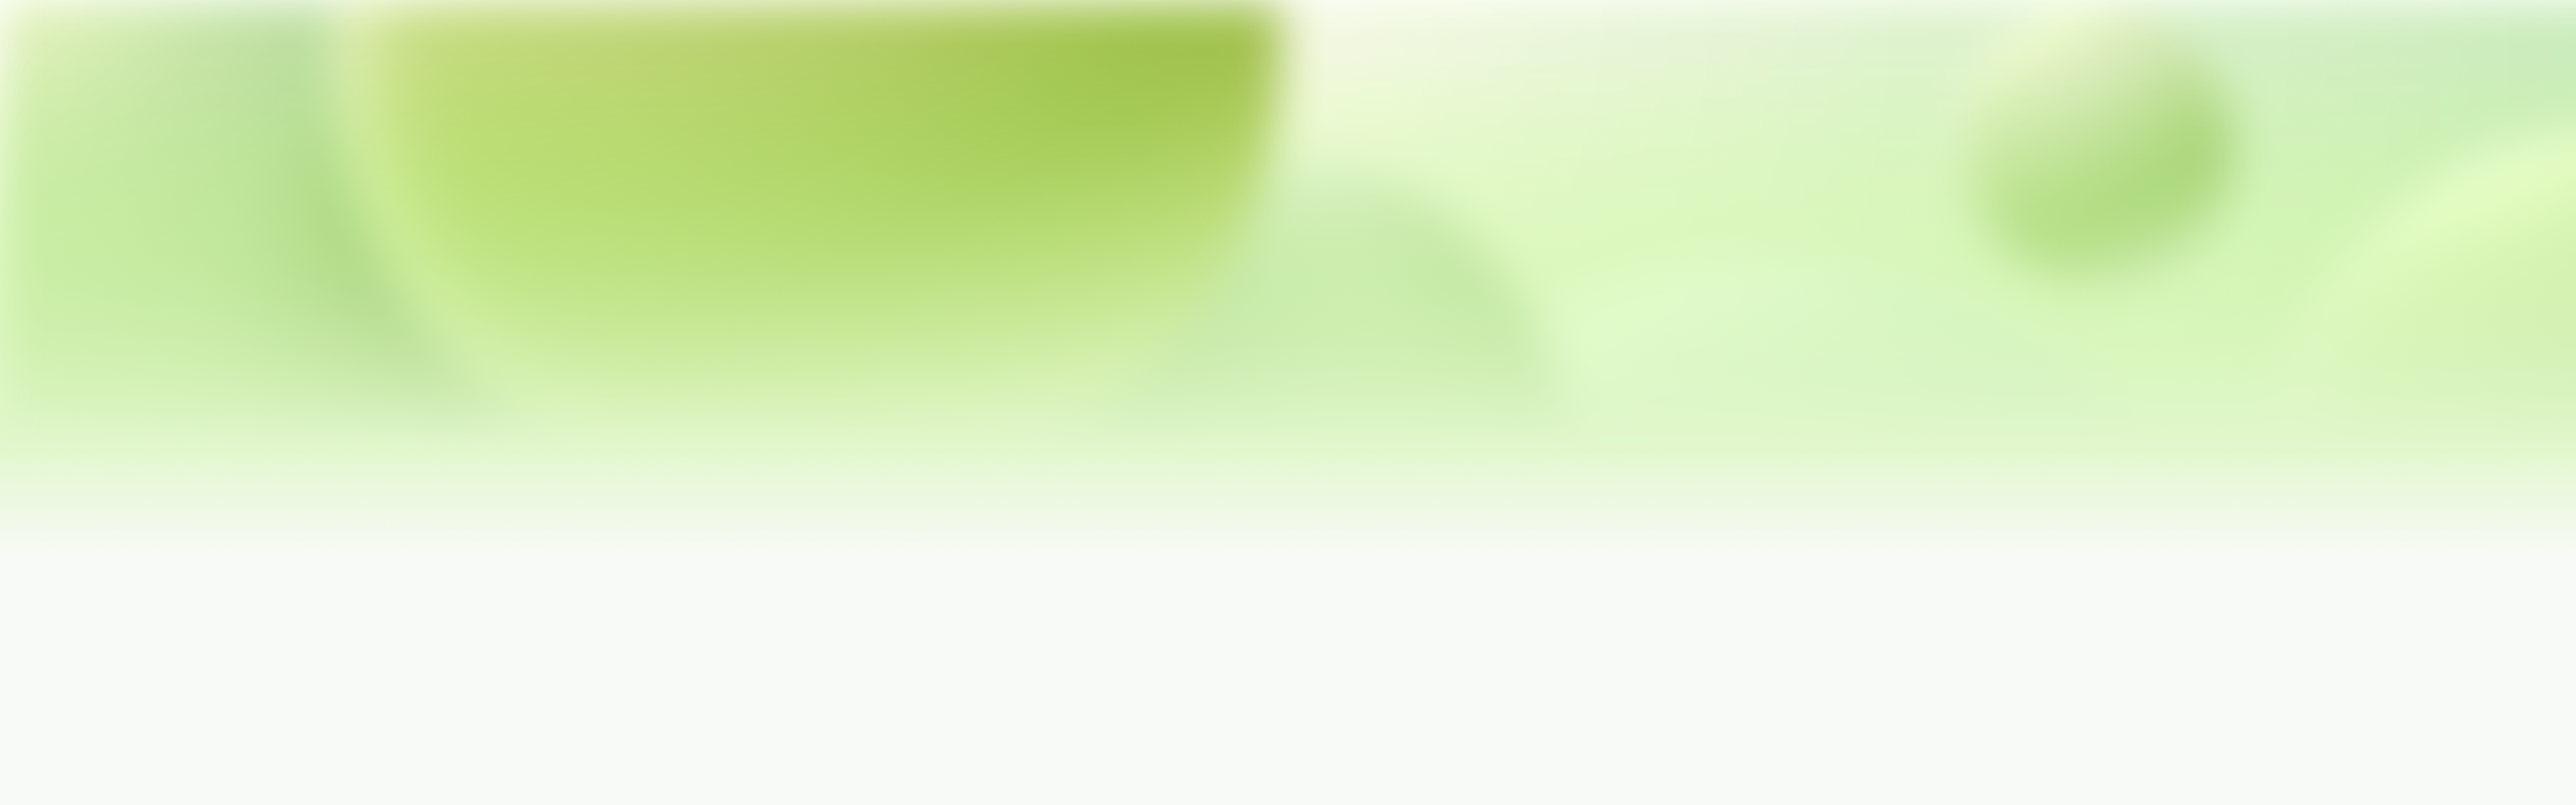
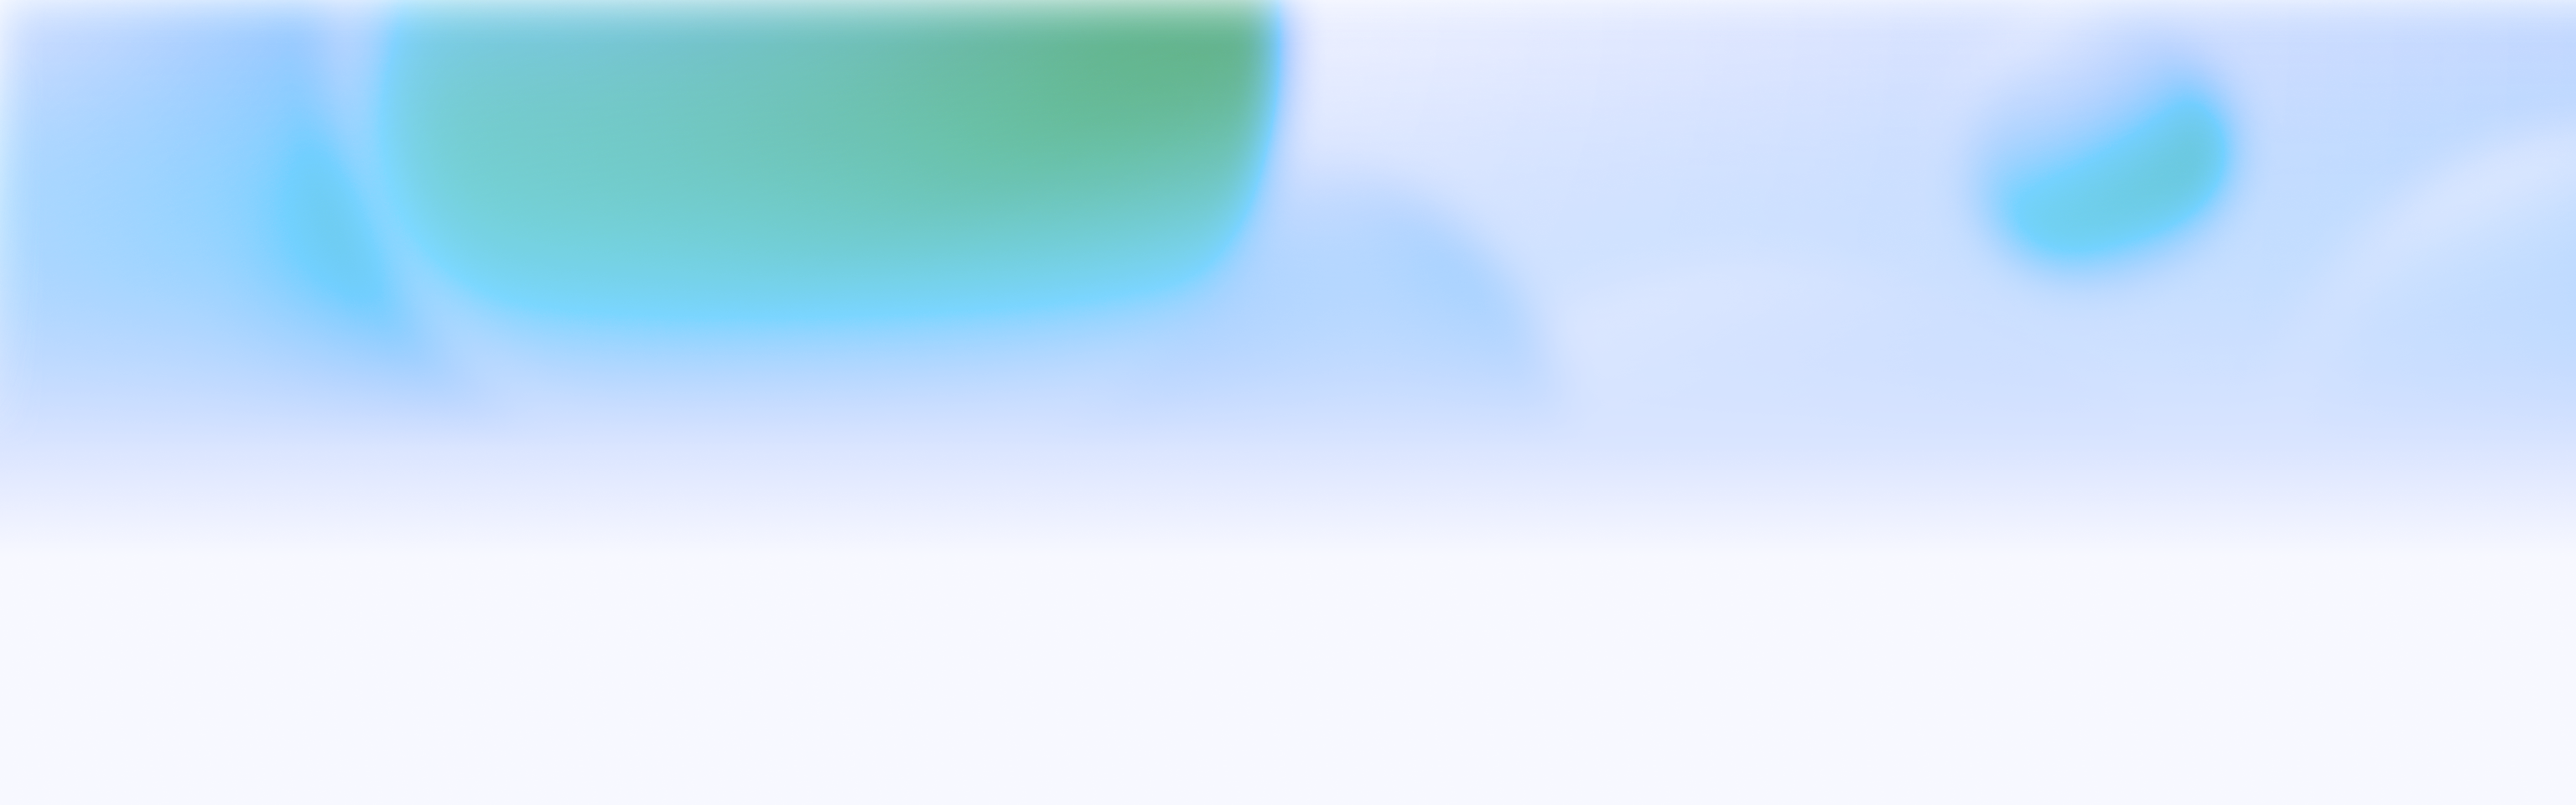
Fix ui

diff --git a/src/views/BaseFrame.vue b/src/views/BaseFrame.vue
@@ -15,7 +15,7 @@
                 <v-img
                     class="header-icon"
                     v-bind:width="getLogoWidth"
-                    src="@/assets/company_logo.svg" 
+                    src="@/assets/navbar_logo.png"
                     contain></v-img>
                     </div>
             </router-link>
@@ -109,6 +109,7 @@ export default {
         if(!window.sessionStorage.getItem("CSW2020")){
             this.logout();
         }
+        console.log(this.$store.getters.isAdmin);
     },
     components:{
         DropdownMenu
@@ -593,7 +594,7 @@ a.dropdown-item{
   background-color: var(--white);
   position: relative;
   margin-left: 25px;
-  box-shadow: 0px 0px 5px 2px rgb(126 211 33 / 20%);
+  box-shadow: 0px 0px 5px 2px rgb(146 158 193 / 20%);
 }
 
 

diff --git a/src/App.vue b/src/App.vue
@@ -138,7 +138,7 @@ export default {
     box-shadow: 0 0 10px 0 #e8e8e8;
   }
   .theme--light.v-card.v-card--outlined:hover{
-    box-shadow: 0px 0px 5px 2px rgb(126 211 33 / 20%) !important;
+    box-shadow: 0px 0px 5px 2px rgb(146 158 193 / 20%) !important;
   }
 
   .theme--light.v-pagination{
@@ -411,11 +411,11 @@ export default {
 }
 
 #app .v-sheet.v-card{
-  box-shadow: 0px 0px 5px 2px rgb(126 211 33 / 20%);
+  box-shadow: 0px 0px 5px 2px rgb(146 158 193 / 20%);
 }
 
 .edit-form-container , .record-form-container , .login-form-container , .registration-form-container , .admin-registration-form-container{
-  box-shadow: 0px 0px 5px 2px rgb(126 211 33 / 20%) !important;
+  box-shadow: 0px 0px 5px 2px rgb(146 158 193 / 20%) !important;
 }
 
 .login-error li{

diff --git a/src/views/UserList.vue b/src/views/UserList.vue
@@ -914,14 +914,14 @@ export default {
   .right-content{
     background-color: #fcfcfd;
                     border-radius: 10px;
-                    box-shadow: 0px 0px 5px 2px rgb(126 211 33 / 20%);
+                    box-shadow: 0px 0px 5px 2px rgb(146 158 193 / 20%);
                     width: 95%;
                     margin-left: 50px;
   }
   .right-content-mobile{
     background-color: #fcfcfd;
                     border-radius: 10px;
-                    box-shadow: 0px 0px 5px 2px rgb(126 211 33 / 20%);
+                    box-shadow: 0px 0px 5px 2px rgb(146 158 193 / 20%);
                     width: 100%;
   }
 

diff --git a/src/views/TrainingList.vue b/src/views/TrainingList.vue
@@ -470,14 +470,14 @@ button[class="vspButton"]:not(:first-child):not(:last-child):hover {
 .right-content {
   background-color: #fcfcfd;
   border-radius: 10px;
-  box-shadow: 0px 0px 5px 2px rgb(126 211 33 / 20%);
+  box-shadow: 0px 0px 5px 2px rgb(146 158 193 / 20%);
   width: 95%;
   margin-left: 50px;
 }
 .right-content-mobile {
   background-color: #fcfcfd;
   border-radius: 10px;
-  box-shadow: 0px 0px 5px 2px rgb(126 211 33 / 20%);
+  box-shadow: 0px 0px 5px 2px rgb(146 158 193 / 20%);
   width: 100%;
 }
 

diff --git a/src/components/LoginForm.vue b/src/components/LoginForm.vue
@@ -18,9 +18,9 @@
                     <v-img
                         class="mx-auto"
                         width="240"
-                        src="@/assets/CIC_Logo.svg"
+                        src="@/assets/navbar_logo.png"
                         contain></v-img>
-                <v-card-text class="login-title">VR Cloud Platform</v-card-text>
+                <v-card-text class="login-title"></v-card-text>
                 </v-list-item-title>
             </v-list-item-content>
         </v-list-item>

diff --git a/src/store/index.js b/src/store/index.js
@@ -157,9 +157,10 @@ export default new Vuex.Store({
             return state.userInfo.lang ?? "en"
         },
         isAdmin: state => {
-            let isAdmin = false
 
-            if(state.userInfo.roles == "SuperAdmin"){
+            let isAdmin = false;
+
+            if(state.userInfo.v2Info.data.result.policy.v1 == "SuperAdmin"){
                 isAdmin = true
             }
 

diff --git a/src/views/UserView.vue b/src/views/UserView.vue
@@ -676,7 +676,7 @@ export default {
 }
 
 .userView-container{
-  box-shadow: 0px 0px 5px 2px rgb(126 211 33 / 20%);
+  box-shadow: 0px 0px 5px 2px rgb(146 158 193 / 20%);
   margin: 0 60px 230px 75px;
   background-color: #fcfcfd;
   border-radius: 10px;

diff --git a/src/views/Register.vue b/src/views/Register.vue
@@ -21,7 +21,7 @@
         <div>
           <v-img
               class="header-icon"
-              src="@/assets/company_logo.svg"
+              src="@/assets/navbar_logo_v2.png"
               contain></v-img>
         </div>
       </router-link>

diff --git a/src/views/RegisterSuccess.vue b/src/views/RegisterSuccess.vue
@@ -21,7 +21,7 @@
         <div>
           <v-img
               class="header-icon"
-              src="@/assets/company_logo.svg"
+              src="@/assets/navbar_logo_v2.png"
               contain></v-img>
         </div>
       </router-link>
